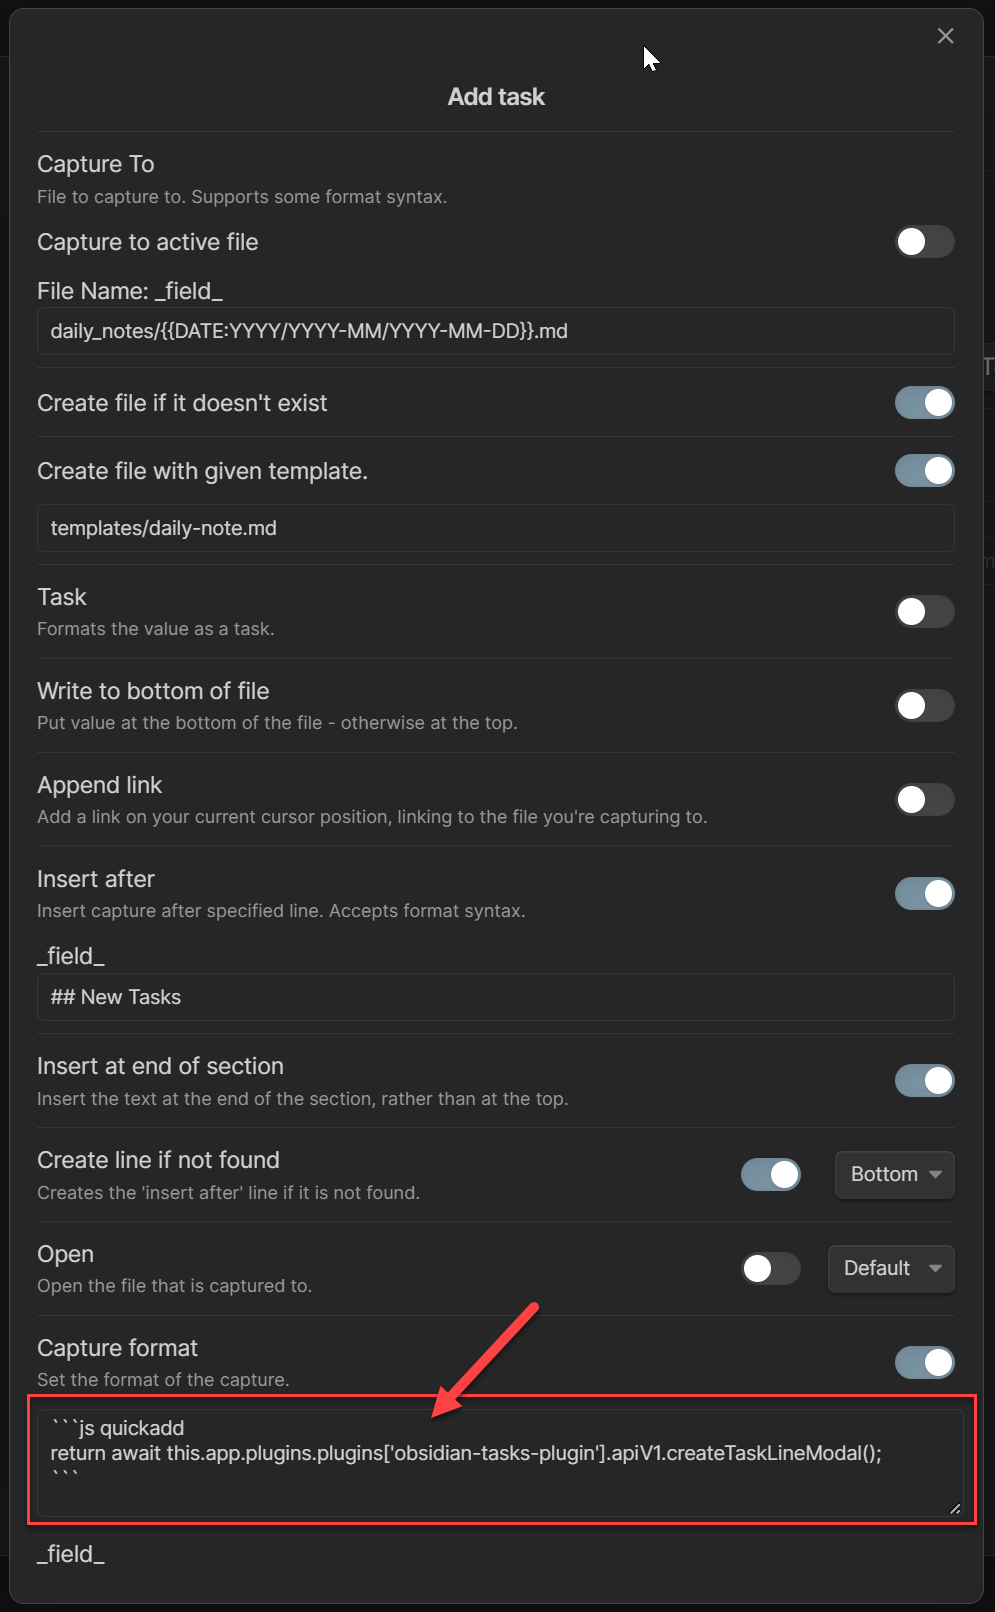
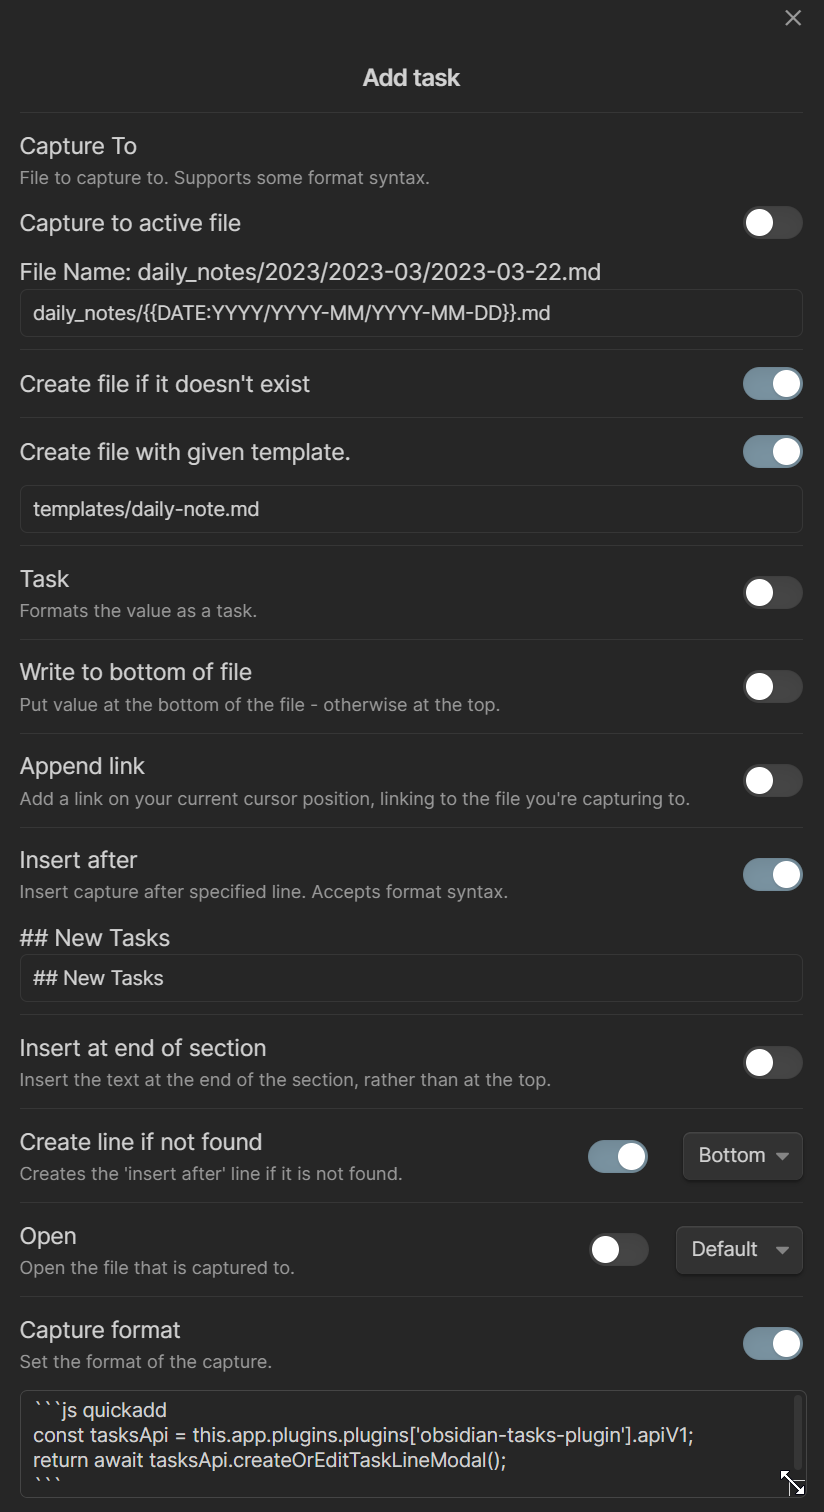
Public API - allow editing existing tasks

diff --git a/tests/Api/createOrEditTaskLineModal.test.ts b/tests/Api/createOrEditTaskLineModal.test.ts
@@ -1,0 +1,92 @@
+import type { App } from 'obsidian';
+import type { Task } from '../../src/Task';
+import { createOrEditTaskLineModal } from '../../src/Api/createOrEditTaskLineModal';
+import { taskFromLine } from '../../src/Commands/CreateOrEditTaskParser';
+
+const app = {} as App;
+
+/**
+ * {@link TaskModal} needs to be mocked, because it depends on {@link obsidian.Modal}, which is not available.
+ */
+class MockTaskModal {
+    public static instance: MockTaskModal;
+    public readonly app: App;
+    public readonly task: Task;
+    public readonly onSubmit: (updateTasks: Task[]) => void;
+
+    public readonly open: () => void;
+
+    constructor({ app, task, onSubmit }: { app: App; task: Task; onSubmit: (updatedTasks: Task[]) => void }) {
+        this.app = app;
+        this.task = task;
+        this.onSubmit = onSubmit;
+        this.open = jest.fn();
+
+        MockTaskModal.instance = this;
+    }
+
+    public submit(expected?: string) {
+        let task = this.task;
+        if (expected) {
+            task = taskFromLine({ line: expected, path: '' });
+        }
+        this.onSubmit([task]);
+    }
+
+    public cancel(): void {
+        this.onSubmit([]);
+    }
+}
+jest.mock('../../src/TaskModal', () => {
+    return {
+        TaskModal: jest.fn(
+            ({ app, task, onSubmit }: { app: App; task: Task; onSubmit: (updatedTasks: Task[]) => void }) => {
+                return new MockTaskModal({ app, task, onSubmit });
+            },
+        ),
+    };
+});
+
+describe('APIv1 - createOrEditTaskLineModal', () => {
+    beforeEach(() => {
+        jest.clearAllMocks();
+    });
+
+    it('TaskModal.open() should be called', () => {
+        createOrEditTaskLineModal(app);
+        expect(MockTaskModal.instance.open).toHaveBeenCalled();
+    });
+
+    it('should return the Markdown for a task if submitted', async () => {
+        expect(await runCreateOrEditTaskLineModalTest('Submit')).toEqual('- [ ] ');
+        expect(await runCreateOrEditTaskLineModalTest('Submit', '- [ ] test')).toEqual('- [ ] test');
+    });
+
+    it('should return an empty string if cancelled', async () => {
+        expect(await runCreateOrEditTaskLineModalTest('Cancel')).toEqual('');
+        expect(await runCreateOrEditTaskLineModalTest('Cancel', '- [ ] test')).toEqual('');
+    });
+});
+
+type FormAction = 'Submit' | 'Cancel';
+
+async function runCreateOrEditTaskLineModalTest(formAction: FormAction, initialTaskLine?: string): Promise<string> {
+    let taskLinePromise: Promise<string>;
+
+    if (initialTaskLine) {
+        taskLinePromise = createOrEditTaskLineModal(app, initialTaskLine);
+    } else {
+        taskLinePromise = createOrEditTaskLineModal(app);
+    }
+
+    switch (formAction) {
+        case 'Submit':
+            MockTaskModal.instance.submit();
+            break;
+        case 'Cancel':
+            MockTaskModal.instance.cancel();
+            break;
+    }
+
+    return await taskLinePromise;
+}

diff --git a/src/Api/createOrEditTaskLineModal.ts b/src/Api/createOrEditTaskLineModal.ts
@@ -1,0 +1,32 @@
+import type { App } from 'obsidian';
+import type { Task } from '../Task';
+import { taskFromLine } from '../Commands/CreateOrEditTaskParser';
+import { TaskModal } from '../TaskModal';
+
+/**
+ * Opens the Tasks UI and returns the Markdown string for the task entered.
+ * If the optional Markdown string for a task is passed, the form will be
+ * populated with that task's properties.
+ *
+ * @param app - The Obsidian App
+ * @param taskLine - Optional Markdown string of the task to edit.
+ *
+ * @returns {Promise<string>} A promise that contains the Markdown string for the task entered or
+ * an empty string, if data entry was cancelled.
+ */
+export const createOrEditTaskLineModal = (app: App, taskLine?: string): Promise<string> => {
+    let resolvePromise: (input: string) => void;
+    const waitForClose = new Promise<string>((resolve, _) => {
+        resolvePromise = resolve;
+    });
+
+    const onSubmit = (updatedTasks: Task[]): void => {
+        const line = updatedTasks.map((task: Task) => task.toFileLineString()).join('\n');
+        resolvePromise(line);
+    };
+
+    const task = taskFromLine({ line: taskLine ?? '', path: '' });
+    const taskModal = new TaskModal({ app, task, onSubmit });
+    taskModal.open();
+    return waitForClose;
+};

diff --git a/src/Api/index.ts b/src/Api/index.ts
@@ -1,7 +1,6 @@
 import type { App } from 'obsidian';
-import { createTaskLineModal } from './createTaskLineModal';
+import { createOrEditTaskLineModal } from './createOrEditTaskLineModal';
 import type { TasksApiV1 } from './TasksApiV1';
-import { defaultTaskModalFactory } from './createTaskLineModalHelper';
 
 /**
  * Factory method for API v1
@@ -10,8 +9,8 @@ import { defaultTaskModalFactory } from './createTaskLineModalHelper';
  */
 export const tasksApiV1 = (app: App): TasksApiV1 => {
     return {
-        createTaskLineModal: (): Promise<string> => {
-            return createTaskLineModal(app, defaultTaskModalFactory);
+        createOrEditTaskLineModal: (taskLine?: string): Promise<string> => {
+            return createOrEditTaskLineModal(app, taskLine);
         },
     };
 };

diff --git a/src/Api/TasksApiV1.ts b/src/Api/TasksApiV1.ts
@@ -4,9 +4,13 @@
 export interface TasksApiV1 {
     /**
      * Opens the Tasks UI and returns the Markdown string for the task entered.
+     * If the optional Markdown string for a task is passed, the form will be
+     * populated with that task's properties.
      *
-     * @returns {Promise<string>} A promise that contains the Markdown string for the task entered or
+     * @param taskLine - Optional Markdown string of the task to edit.
+     *
+     * @returns {Promise<string>} A promise that contains the Markdown string for the task or
      * an empty string, if data entry was cancelled.
      */
-    createTaskLineModal(): Promise<string>;
+    createOrEditTaskLineModal(taskLine?: string): Promise<string>;
 }

diff --git a/docs/advanced/api.md b/docs/advanced/api.md
@@ -41,35 +41,58 @@ This is the interface the API exposes:
 export interface TasksApiV1 {
     /**
      * Opens the Tasks UI and returns the Markdown string for the task entered.
+     * If the optional Markdown string for a task is passed, the form will be
+     * populated with that task's properties.
      *
-     * @returns {Promise<string>} A promise that contains the Markdown string for the task entered or
+     * @param taskLine - Optional Markdown string of the task to edit.
+     *
+     * @returns {Promise<string>} A promise that contains the Markdown string for the task or
      * an empty string, if data entry was cancelled.
      */
-    createTaskLineModal(): Promise<string>;
+    createOrEditTaskLineModal(taskLine?: string): Promise<string>;
 }
 ```
 
-## `createTaskLineModal(): Promise<string>;`
+## `createOrEditTaskLineModal(): Promise<string>;`
 
 {: .released }
 This method was introduced in Tasks 1.26.0.
 
-This method opens the Tasks [Create or edit task UI]({{ site.baseurl }}{% link getting-started/create-or-edit-task.md %}) and returns the Markdown for the task entered.
+This method opens the Tasks [Create or edit task UI]({{ site.baseurl }}{% link getting-started/create-or-edit-task.md %})
+and returns the Markdown for the task entered.
+
+If the optional parameter `taskLine` is provided, it will be parsed and the [Create or edit task UI]({{ site.baseurl }}{% link getting-started/create-or-edit-task.md %})
+is populated with the values of the parsed task.
+
 If data entry is cancelled, an empty string is returned.
+
+{: .warning }
+> This function is returns a `Promise` - always `await` the result!
 
 ### Basic usage
 
 ```javascript
 const tasksApi = this.app.plugins.plugins['obsidian-tasks-plugin'].apiV1;
-let taskLine = await tasksApi.createTaskLineModal();
+const taskLine = await tasksApi.createOrEditTaskLineModal();
 
 // Do whatever you want with the returned value.
 // It's just a string containing the Markdown for the task.
 console.log(taskLine);
 ```
 
-{: .warning }
-> This function is returns a `Promise` - always `await` the result!
+### Editing an existing task
+
+```javascript
+const tasksApi = this.app.plugins.plugins['obsidian-tasks-plugin'].apiV1;
+const existingTaskLine = '- [ ] some task 🛫 2023-03-22'
+
+// this opens the UI populated with the values for the given taskLine
+let taskLine = await tasksApi.createOrEditTaskLineModal(existingTaskLine);
+
+// Do whatever you want with the returned value.
+// It's just a string containing the Markdown for the task.
+console.log(taskLine);
+```
 
 ### Usage with QuickAdd
 One of the most common usage scenarios is probably in combination with the [QuickAdd](https://github.com/chhoumann/quickadd) plugin
@@ -80,7 +103,7 @@ For this you need to enter the following code as the Capture format:
 <!-- markdownlint-disable code-fence-style -->
 ~~~markdown
 ```js quickadd
-return await this.app.plugins.plugins['obsidian-tasks-plugin'].apiV1.createTaskLineModal();
+return await this.app.plugins.plugins['obsidian-tasks-plugin'].apiV1.createOrEditTaskLineModal();
 ```
 ~~~
 <!-- markdownlint-enable code-fence-style -->
